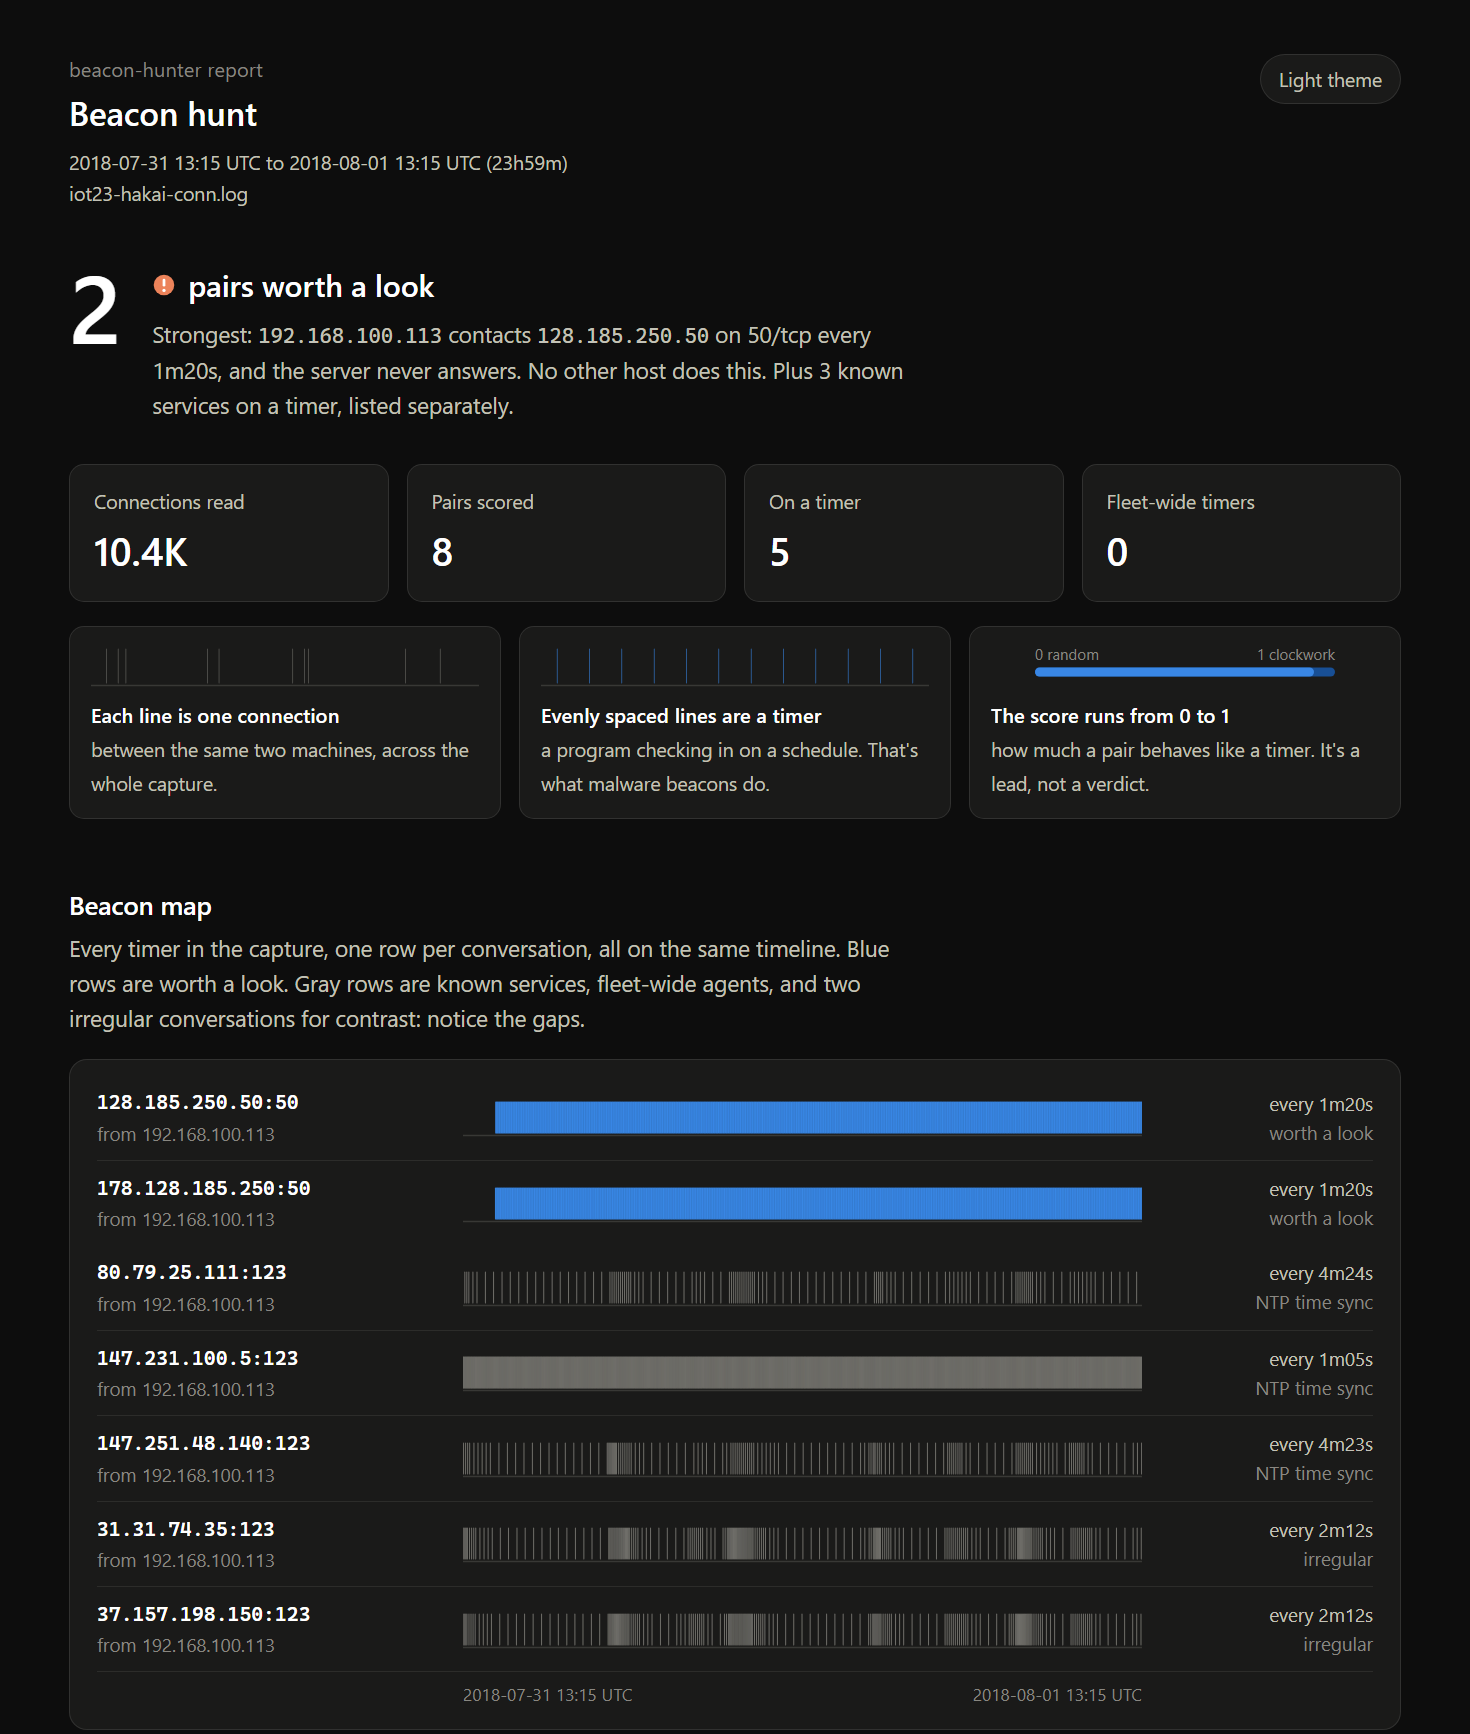
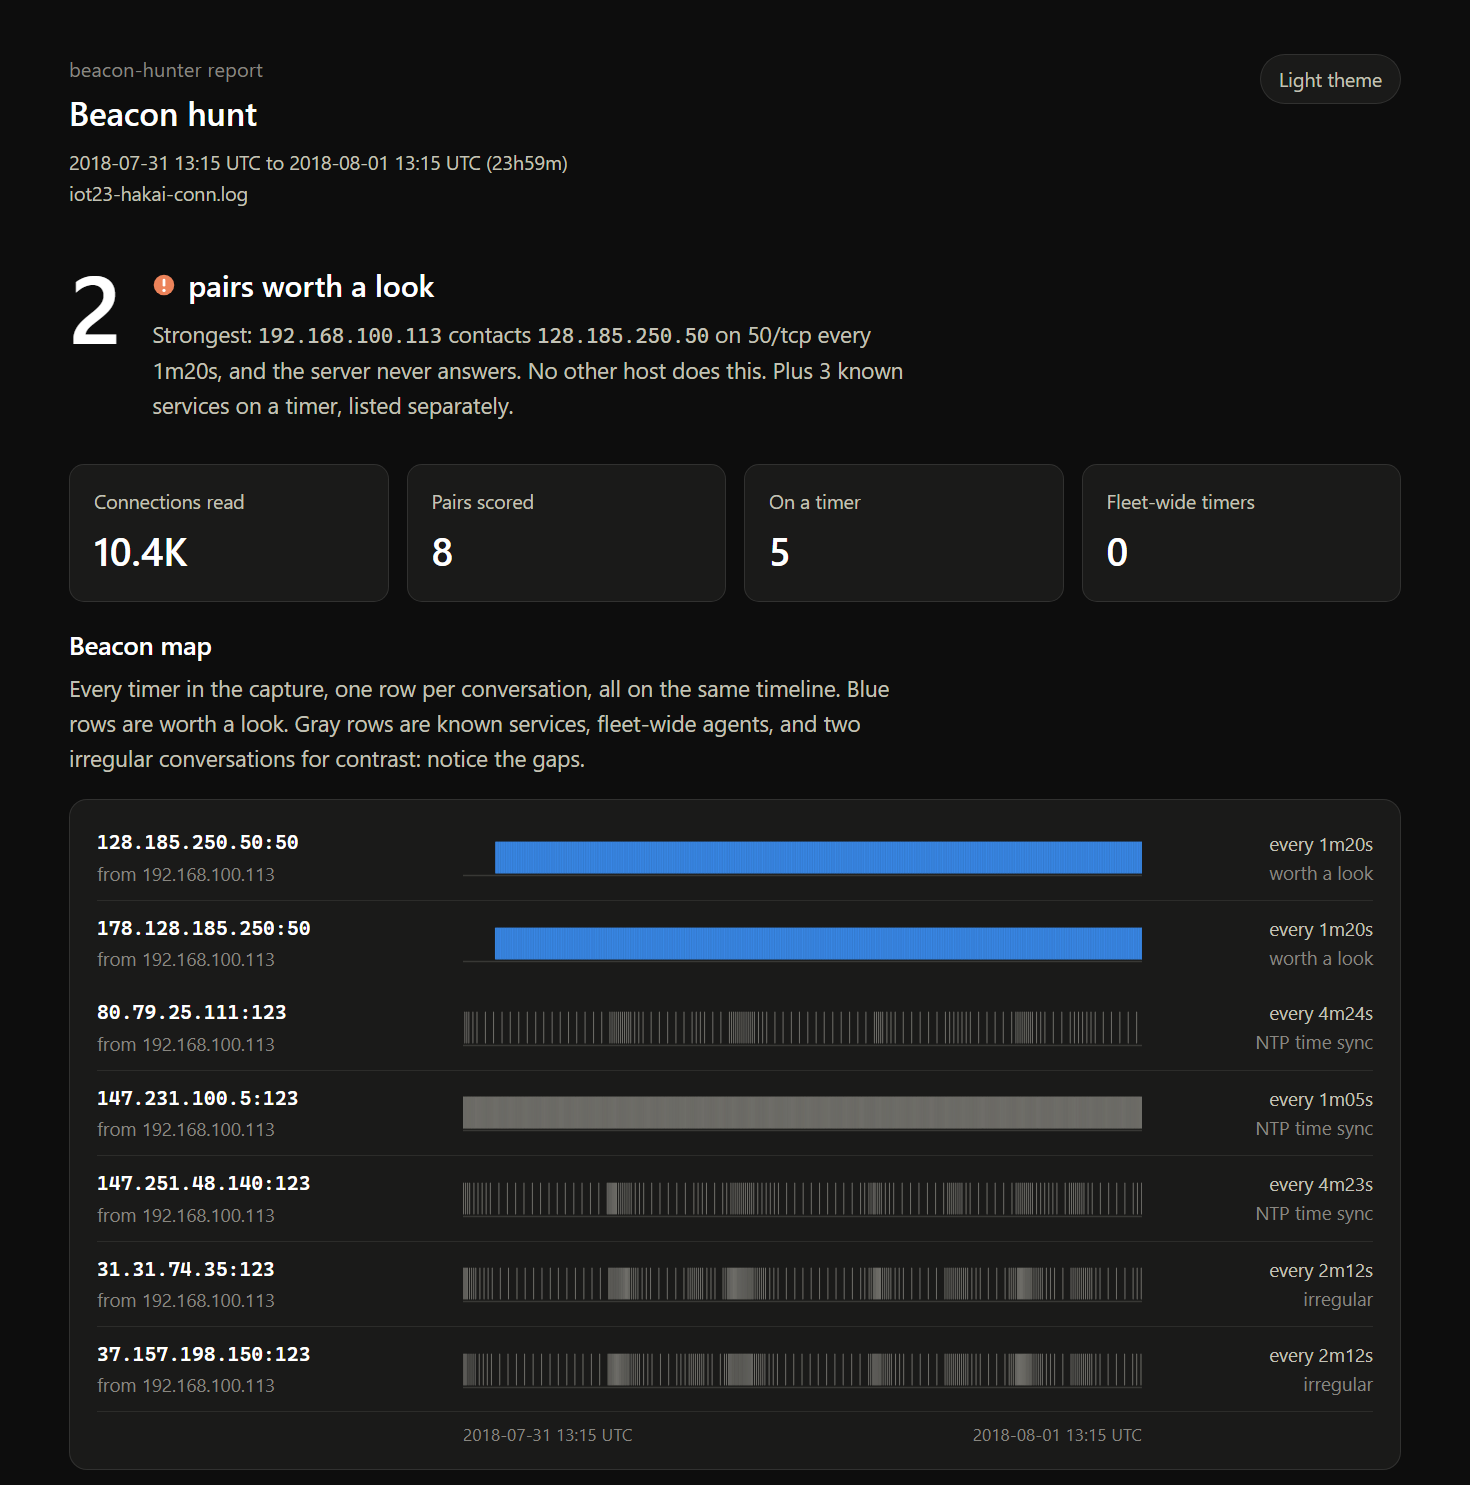
Tighter project card

diff --git a/README.md b/README.md
@@ -11,8 +11,8 @@ Finds malware "phoning home" in network logs, explains every finding in plain En
 
 <a href="https://github.com/jhunte-sec/beacon-hunter">
 <picture>
-  <source media="(prefers-color-scheme: dark)" srcset="assets/beacon-hunter-dark.png?v=b747c3af">
-  <img alt="beacon-hunter report on a real malware capture: 2 pairs worth a look, and a beacon map where the malware's two command servers stand out as solid timers" src="assets/beacon-hunter-light.png?v=a4dc4d4a" width="100%">
+  <source media="(prefers-color-scheme: dark)" srcset="assets/beacon-hunter-dark.png?v=78e20556">
+  <img alt="beacon-hunter report on a real malware capture: 2 pairs worth a look, and a beacon map where the malware's two command servers stand out as solid timers" src="assets/beacon-hunter-light.png?v=c36aae26" width="100%">
 </picture>
 </a>
 
